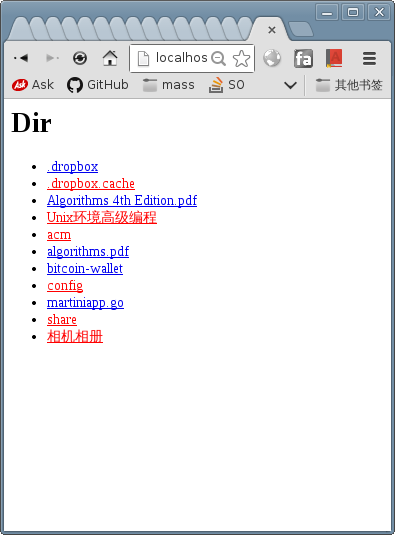
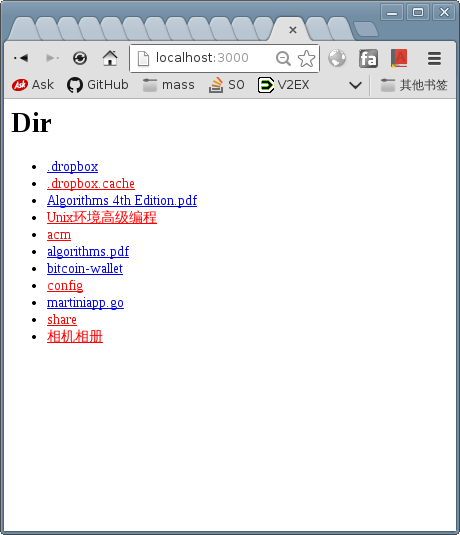
readme

diff --git a/README.md b/README.md
@@ -1,7 +1,9 @@
-#dir app#
+#Dir App#
 Usage of this golang app is to list and reach to the file, just like `python -m SimpleHTTPServer 3000`.
 
 I used [martini](https://github.com/codegangsta/martini) as the web framework.
+
+It works at default port 3000 as http://localhost:3000
 
 I cross compiled it for Windows, Mac OS and Linux by [gox](https://github.com/mitchellh/gox).
 You can get the executable file from [here](https://github.com/gejigeji/golang_exercise/tree/master/bin)
